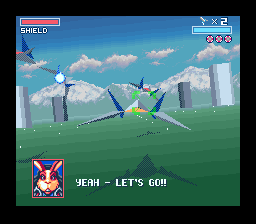
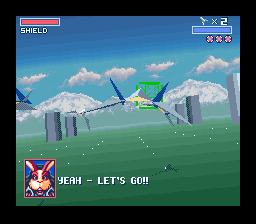
64 hud mod got updated, adding tools portfolio page soon

diff --git a/romhacks.html b/romhacks.html
@@ -32,6 +32,7 @@ Filename: romhacks.html
 				<a href="links.html"><img src="img/sidenav/linksicon.png" class="sidenavicon"> Links</a>
 				<div>Works</div>
 				<a href="romhacks.html"><img src="img/sidenav/n64carticon.png" class="sidenavicon"> ROMHacks</a>
+				<div>Art</div>
 				<a href="artwork.html"><img src="img/sidenav/artworkicon.png" class="sidenavicon"> Artwork</a>
 				<div>Donate</div>
 				<a href="https://www.patreon.com/c/SunlitSpace542"><img src="img/sidenav/patreonicon.png" class="sidenavicon"> Patreon</a>
@@ -444,7 +445,7 @@ Filename: romhacks.html
 					<li>
 						<h2>[SNES] <a href="https://rhpz.org/1713">Star Fox 64 Style HUD</a></h2>
 						<p>
-							Period of Creation: December 5, 2021 - December 29, 2023<br>
+							Period of Creation: December 5, 2021 - July 18, 2025<br>
 							Released: December 7, 2021<br>
 							Game Modified: Star Fox (1993)<br>
 						</p>
@@ -462,7 +463,7 @@ Filename: romhacks.html
 							Work I did for this hack:
 							<ul>
 								<li>
-									Programming - implementing new HUD layout, boss bar drawing routine reprogramming for v3.0
+									Programming - implementing new HUD layout, boss bar drawing routine reprogramming for v3.0, 3D reticle implementation for v4.0
 								</li>
 								<li>
 									Graphics - new HUD layout, Star Fox 2 mugshots, slight gamepal tweak for Slippy

diff --git a/artwork.html b/artwork.html
@@ -32,6 +32,7 @@ Filename: artwork.html
 				<a href="links.html"><img src="img/sidenav/linksicon.png" class="sidenavicon"> Links</a>
 				<div>Works</div>
 				<a href="romhacks.html"><img src="img/sidenav/n64carticon.png" class="sidenavicon"> ROMHacks</a>
+				<div>Art</div>
 				<a href="artwork.html"><img src="img/sidenav/artworkicon.png" class="sidenavicon"> Artwork</a>
 				<div>Donate</div>
 				<a href="https://www.patreon.com/c/SunlitSpace542"><img src="img/sidenav/patreonicon.png" class="sidenavicon"> Patreon</a>

diff --git a/index.html b/index.html
@@ -32,6 +32,7 @@ Filename: index.html
 				<a href="links.html"><img src="img/sidenav/linksicon.png" class="sidenavicon"> Links</a>
 				<div>Works</div>
 				<a href="romhacks.html"><img src="img/sidenav/n64carticon.png" class="sidenavicon"> ROMHacks</a>
+				<div>Art</div>
 				<a href="artwork.html"><img src="img/sidenav/artworkicon.png" class="sidenavicon"> Artwork</a>
 				<div>Donate</div>
 				<a href="https://www.patreon.com/c/SunlitSpace542"><img src="img/sidenav/patreonicon.png" class="sidenavicon"> Patreon</a>

diff --git a/links.html b/links.html
@@ -32,6 +32,7 @@ Filename: links.html
 				<a href="links.html"><img src="img/sidenav/linksicon.png" class="sidenavicon"> Links</a>
 				<div>Works</div>
 				<a href="romhacks.html"><img src="img/sidenav/n64carticon.png" class="sidenavicon"> ROMHacks</a>
+				<div>Art</div>
 				<a href="artwork.html"><img src="img/sidenav/artworkicon.png" class="sidenavicon"> Artwork</a>
 				<div>Donate</div>
 				<a href="https://www.patreon.com/c/SunlitSpace542"><img src="img/sidenav/patreonicon.png" class="sidenavicon"> Patreon</a>
